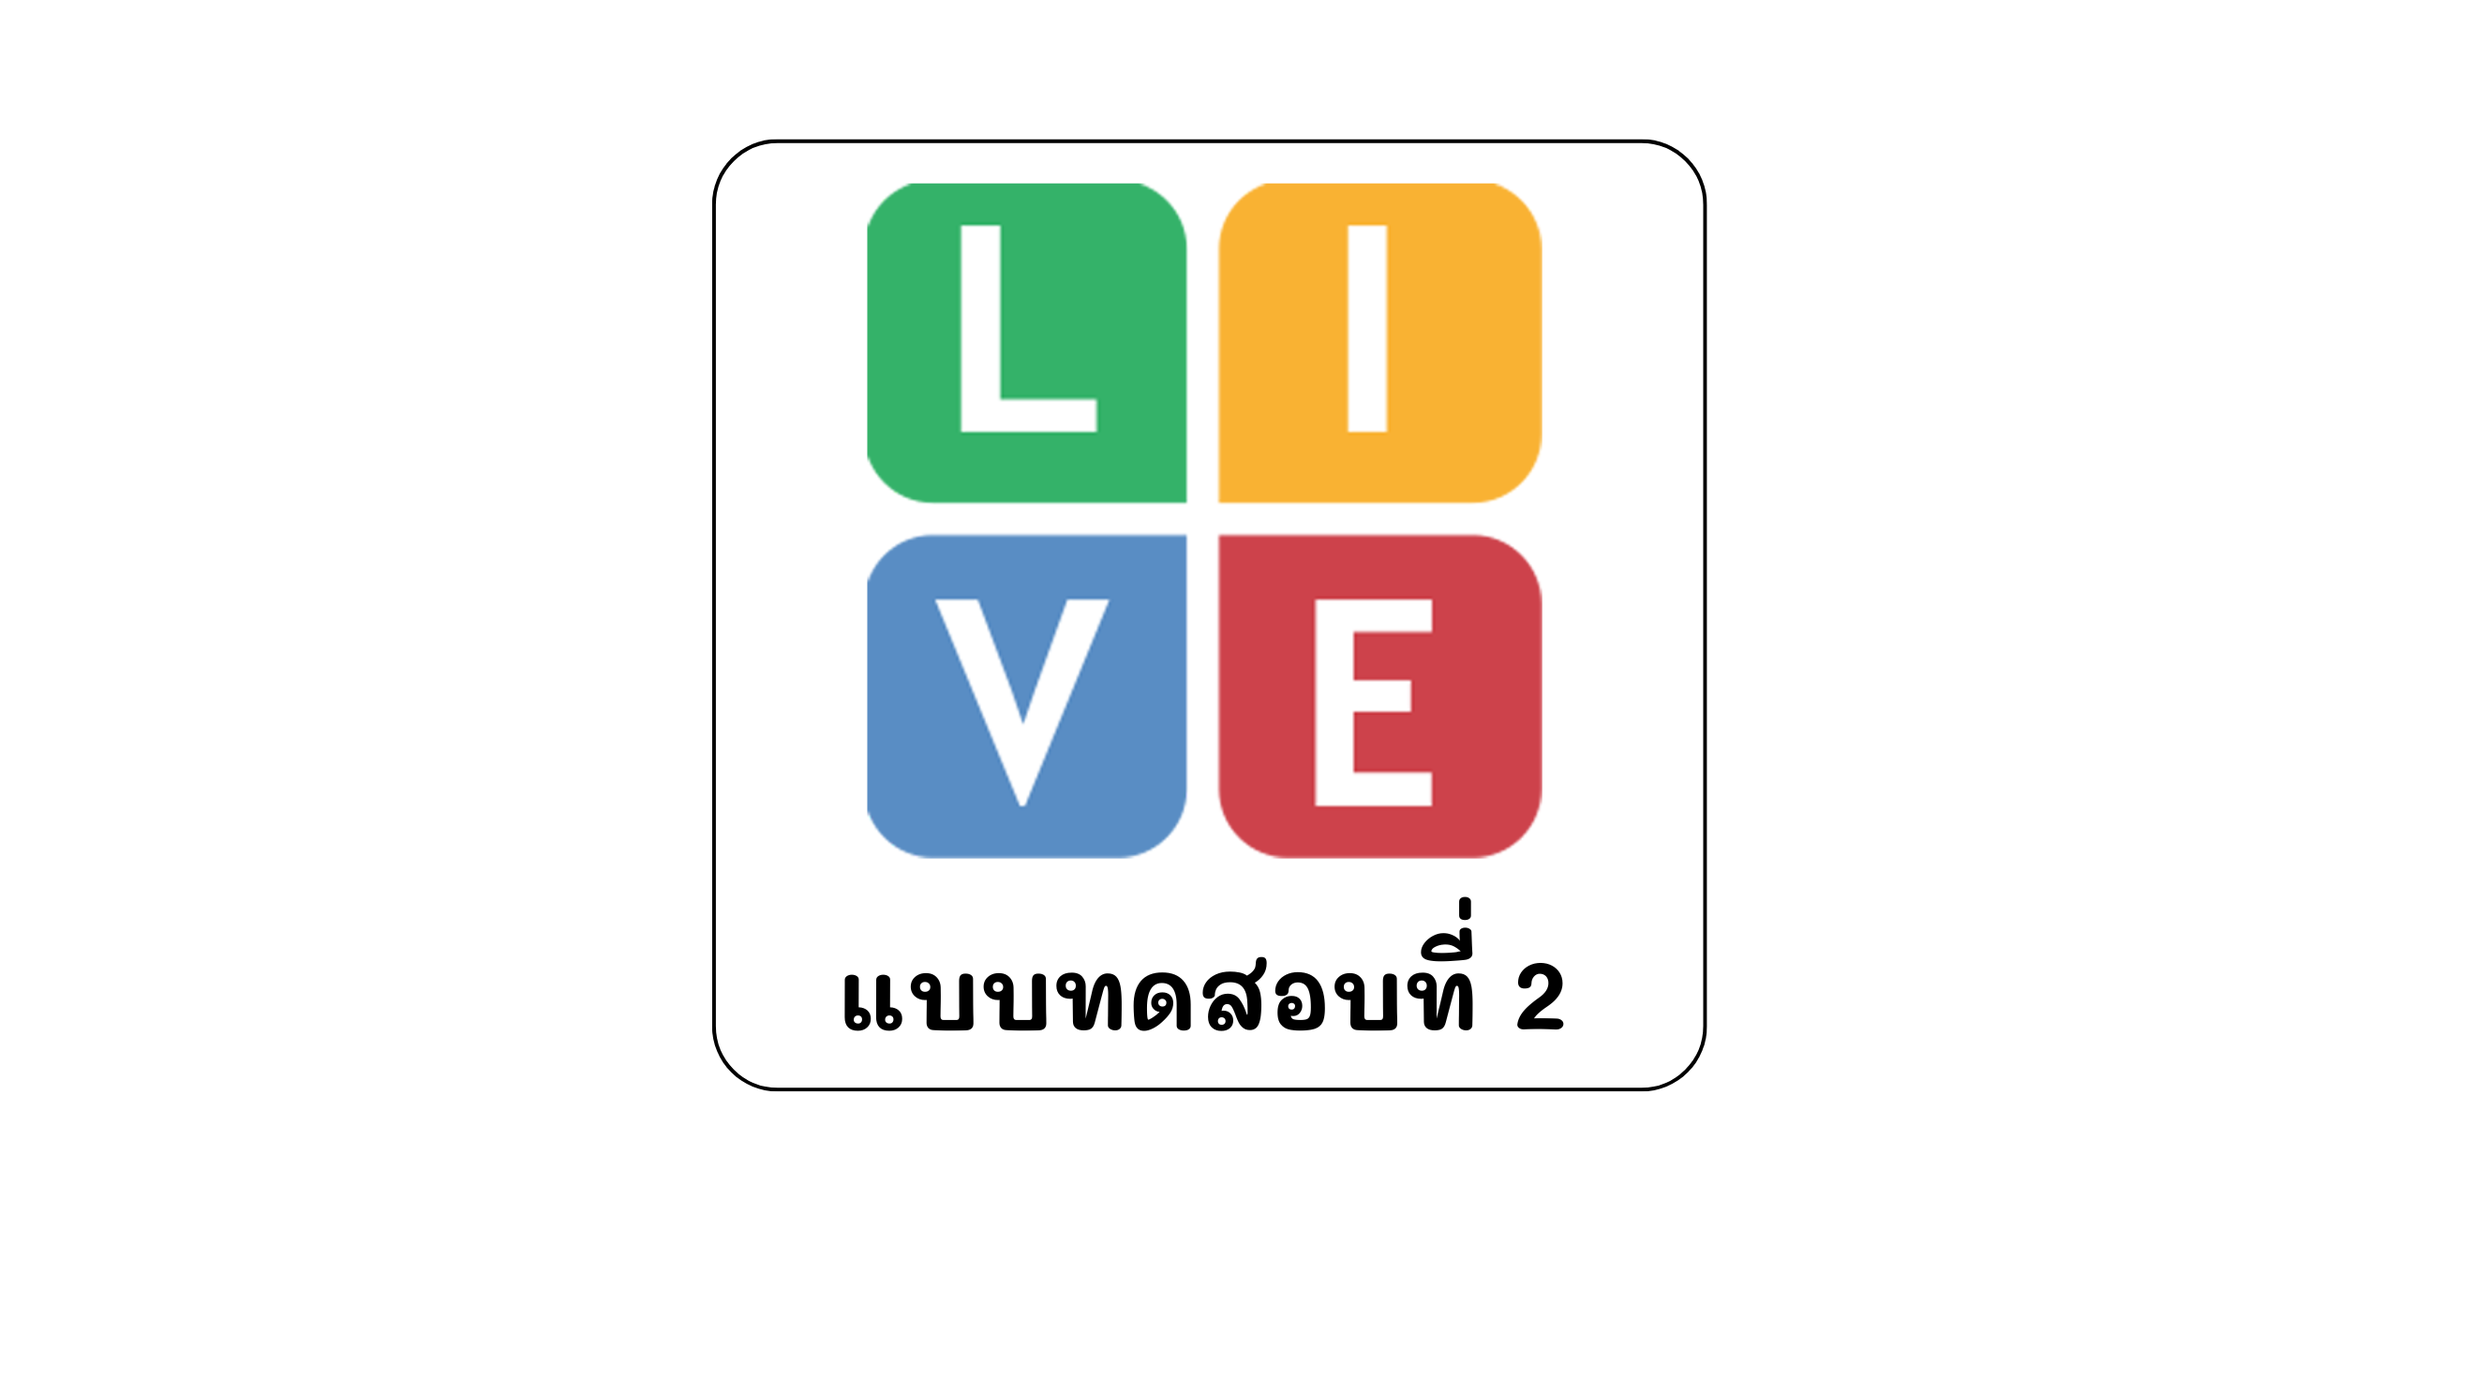
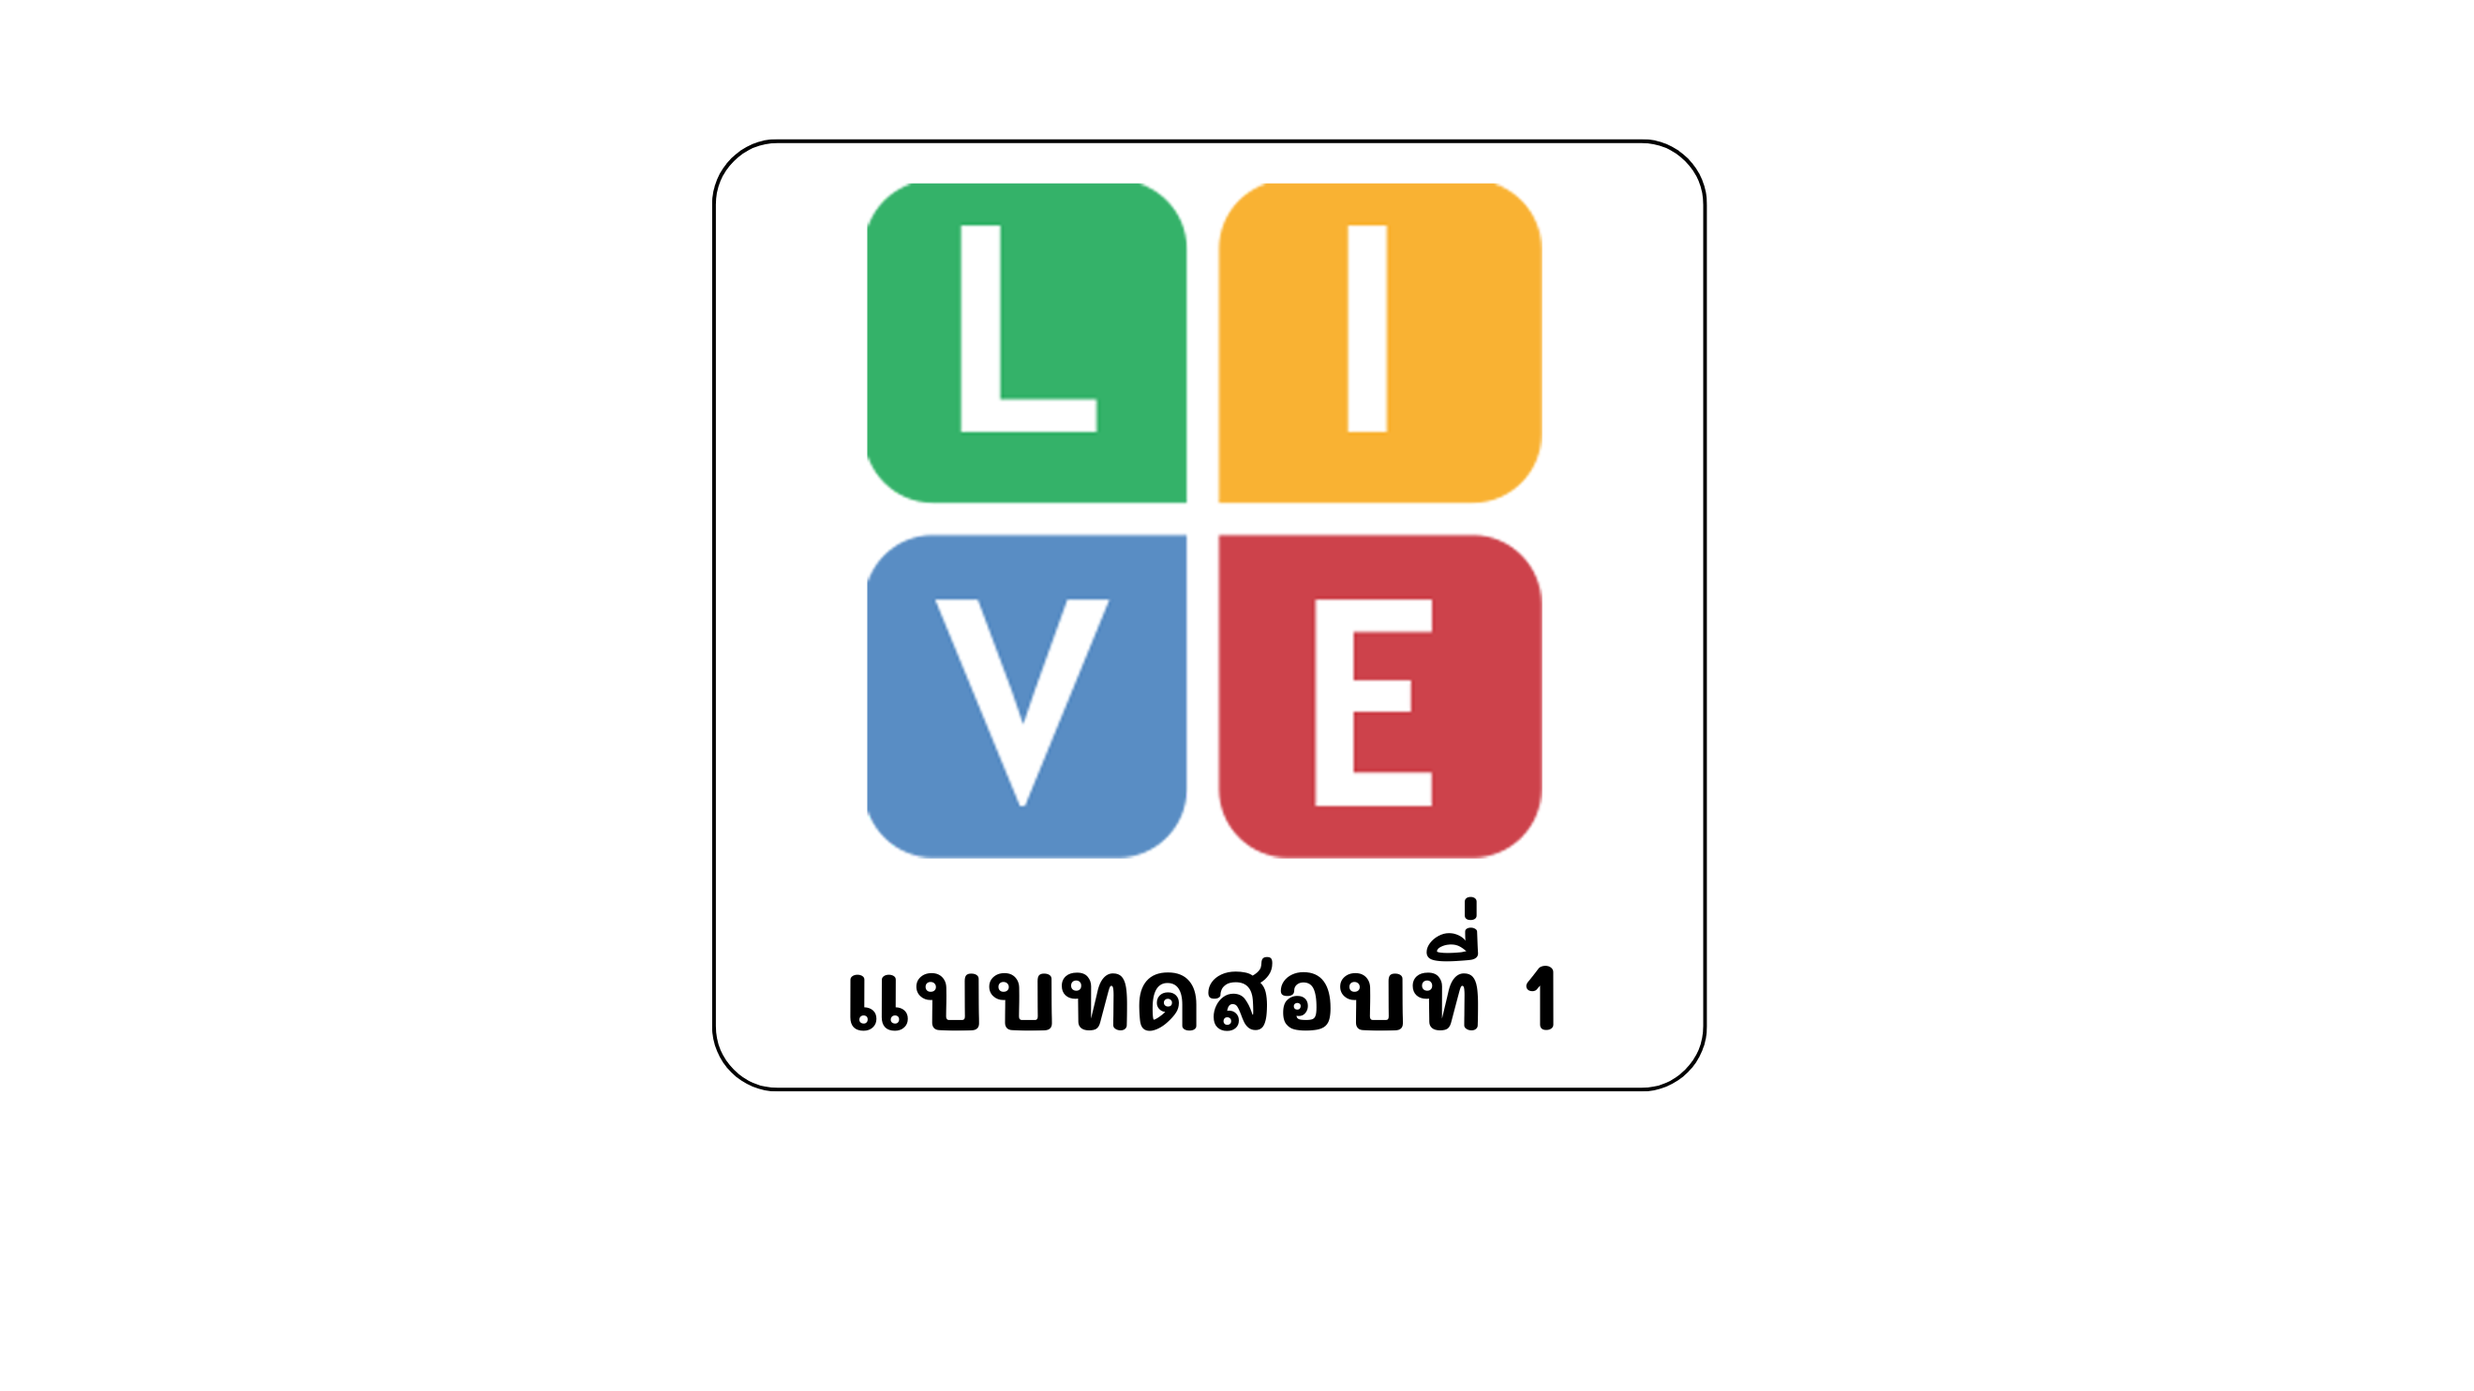
feat: update

Changed region(s): [[0.3417, 0.6505, 0.6523, 0.7434]]

diff --git a/app/pages/courses/lesson3.vue b/app/pages/courses/lesson3.vue
@@ -7,11 +7,13 @@ const test = computed(() => {
   return [
     {
       title: "แบบทดสอบที่ 1",
-      to: "https://www.liveworksheets.com/th/c?a=s&g=%E0%B8%9B.3&s=math&t=fnEyx4KoqY&mn=xz&sr=n&l=df&i=odouxxo&r=sj&f=dzdfuuuf&ms=uz&cd=pel-im9-jt-mglnejnjxmmjpqngnexxxexg&mw=hs",
+      to: "https://www.liveworksheets.com/th/c?a=s&g=%E0%B8%9B.3&s=math&t=fnEyx4KoqY&mn=xz&sr=n&l=jf&i=odouxss&r=g2&f=dzdfuuuf&ms=uz&cd=pel-im9-jt-mglqejnjxmppb5ngnexxxexg&mw=hs",
+      image: "https://math-teacher-tarn.vercel.app/images/test-1.png",
     },
     {
       title: "แบบทดสอบที่ 2",
-      to: "https://www.liveworksheets.com/th/c?a=s&g=%E0%B8%9B.3&s=math&t=fnEyx4KoqY&mn=xz&sr=n&l=qm&i=odozoxz&r=yx&f=dzdfuuuf&ms=uz&cd=pel-im9-jt-mgltvjnjgjmgimngnexxxexg&mw=hs",
+      to: "https://www.liveworksheets.com/th/c?a=s&g=%E0%B8%9B.3&s=math&t=fnEyx4KoqY&mn=xz&sr=n&l=mh&i=odoufzs&r=v9&f=dzdfuuuf&ms=uz&cd=pel-im9-jt-mglvwjnjxegpy4ngnexxxexg&mw=hs",
+      image: "https://math-teacher-tarn.vercel.app/images/test-2.png",
     },
   ];
 });
@@ -81,7 +83,7 @@ useSeoMeta({
     >
       <iframe
         class="aspect-video"
-        src="https://www.youtube.com/embed/VZ6Bn13VrEM"
+        src="https://www.youtube.com/embed/BABvNyXLW4I"
         frameborder="0"
         allowfullscreen
         width="100%"
@@ -161,20 +163,29 @@ useSeoMeta({
     <h3 class="text-xl font-semibold">
       ให้นักเรียนสร้างแบบจำลองความคิดจากโจทย์ปัญหาการลบ
     </h3>
-    <UButton
-      to="https://kleki.com/"
-      target="_blank"
-      color="neutral"
-      class="w-fit"
-      trailing-icon="i-lucide-arrow-right"
-      size="xl"
-    >
-      เริ่มสร้างแบบจำลองความคิด
-    </UButton>
+    <div class="flex flex-col">
+      <NuxtLink to="https://kleki.com/" target="_blank">
+        <NuxtImg
+          src="https://math-teacher-tarn.vercel.app/images/simulation.png"
+          alt="Kleki"
+          class="w-full"
+        />
+      </NuxtLink>
+      <UButton
+        to="https://kleki.com/"
+        target="_blank"
+        color="neutral"
+        class="w-fit mx-auto"
+        trailing-icon="i-lucide-arrow-right"
+        size="xl"
+      >
+        เริ่มสร้างแบบจำลองความคิด
+      </UButton>
+    </div>
     <USeparator class="my-6" />
     <h3 class="text-xl font-semibold">
-      ให้นักเรียนตอบคำถามหลังจากรับชมวิดีโอบทเรียนโจทย์ปัญหาการลบ
-      การเปรียบเทียบหาความแตกต่าง
+      ให้นักเรียนตอบคำถามหลังจากรับชมวิดีโอโจทย์ปัญหาการลบ
+      การหาจำนวนที่ต้องหามาเพิ่ม
     </h3>
     <UCard
       :ui="{
@@ -184,7 +195,7 @@ useSeoMeta({
     >
       <iframe
         class="h-[80dvh] sm:aspect-video"
-        src="https://padlet.com/yamjard_53p/padlet-hy2gih0vrm8alpfm"
+        src="https://padlet.com/yamjard_53p/padlet-413qunjz75h2rwdw"
         frameborder="0"
         allowfullscreen
         width="100%"
@@ -220,25 +231,28 @@ useSeoMeta({
 
   <div class="m-4 flex flex-col gap-4" v-if="route.hash === '#section3'">
     <h2 class="text-3xl font-bold">
-      ภารกิจพิชิตโจทย์ปัญหาการลบ การเปรียบเทียบหาความแตกต่าง
+      ภารกิจพิชิตโจทย์ปัญหาการลบ การหาจำนวนที่ต้องหามาเพิ่ม
     </h2>
-    <h3 class="text-xl font-semibold mt-2">
-      ให้นักเรียนเรียนรู้และรับชมวิดีโอบทเรียนโจทย์ปัญหาการลบ
-      การเปรียบเทียบหาความแตกต่าง
-    </h3>
     <div class="flex flex-col gap-4">
-      <div class="flex flex-col gap-2" v-for="item in test" :key="item.title">
-        <h3 class="text-xl">{{ item.title }}</h3>
+      <div
+        class="flex flex-col"
+        v-for="(item, index) in test"
+        :key="item.title"
+      >
+        <NuxtLink :to="item.to" target="_blank">
+          <NuxtImg :src="item.image" :alt="item.title" class="w-full" />
+        </NuxtLink>
         <UButton
           :to="item.to"
           target="_blank"
           color="neutral"
-          class="w-fit"
+          class="w-fit mx-auto"
           trailing-icon="i-lucide-arrow-right"
           size="xl"
         >
-          เริ่มทำแบบทดสอบ
+          เริ่มทำ {{ item.title }}
         </UButton>
+        <USeparator class="my-6" v-if="index !== test.length - 1" />
       </div>
     </div>
     <USeparator />

diff --git a/app/pages/courses/lesson2.vue b/app/pages/courses/lesson2.vue
@@ -8,10 +8,12 @@ const test = computed(() => {
     {
       title: "แบบทดสอบที่ 1",
       to: "https://www.liveworksheets.com/th/c?a=s&g=%E0%B8%9B.3&s=math&t=fnEyx4KoqY&mn=xz&sr=n&l=jf&i=odouxss&r=g2&f=dzdfuuuf&ms=uz&cd=pel-im9-jt-mglqejnjxmppb5ngnexxxexg&mw=hs",
+      image: "https://math-teacher-tarn.vercel.app/images/test-1.png",
     },
     {
       title: "แบบทดสอบที่ 2",
       to: "https://www.liveworksheets.com/th/c?a=s&g=%E0%B8%9B.3&s=math&t=fnEyx4KoqY&mn=xz&sr=n&l=mh&i=odoufzs&r=v9&f=dzdfuuuf&ms=uz&cd=pel-im9-jt-mglvwjnjxegpy4ngnexxxexg&mw=hs",
+      image: "https://math-teacher-tarn.vercel.app/images/test-2.png",
     },
   ];
 });
@@ -101,7 +103,7 @@ useSeoMeta({
     >
       <iframe
         class="h-[80dvh] sm:aspect-video"
-        src="https://padlet.com/sirapattarn/padlet-m0qm8h6z7t9701zg"
+        src="https://padlet.com/sirapattarn/padlet-4myx1q6wtoo6lgs"
         frameborder="0"
         allowfullscreen
         width="100%"
@@ -161,19 +163,28 @@ useSeoMeta({
     <h3 class="text-xl font-semibold">
       ให้นักเรียนสร้างแบบจำลองความคิดจากโจทย์ปัญหาการลบ
     </h3>
-    <UButton
-      to="https://kleki.com/"
-      target="_blank"
-      color="neutral"
-      class="w-fit"
-      trailing-icon="i-lucide-arrow-right"
-      size="xl"
-    >
-      เริ่มสร้างแบบจำลองความคิด
-    </UButton>
+    <div class="flex flex-col">
+      <NuxtLink to="https://kleki.com/" target="_blank">
+        <NuxtImg
+          src="https://math-teacher-tarn.vercel.app/images/simulation.png"
+          alt="Kleki"
+          class="w-full"
+        />
+      </NuxtLink>
+      <UButton
+        to="https://kleki.com/"
+        target="_blank"
+        color="neutral"
+        class="w-fit mx-auto"
+        trailing-icon="i-lucide-arrow-right"
+        size="xl"
+      >
+        เริ่มสร้างแบบจำลองความคิด
+      </UButton>
+    </div>
     <USeparator class="my-6" />
     <h3 class="text-xl font-semibold">
-      ให้นักเรียนตอบคำถามหลังจากรับชมวิดีโอบทเรียนโจทย์ปัญหาการลบ
+      ให้นักเรียนตอบคำถามหลังจากรับชมวิดีโอโจทย์ปัญหาการลบ
       การเปรียบเทียบหาความแตกต่าง
     </h3>
     <UCard
@@ -222,23 +233,26 @@ useSeoMeta({
     <h2 class="text-3xl font-bold">
       ภารกิจพิชิตโจทย์ปัญหาการลบ การเปรียบเทียบหาความแตกต่าง
     </h2>
-    <h3 class="text-xl font-semibold mt-2">
-      ให้นักเรียนเรียนรู้และรับชมวิดีโอบทเรียนโจทย์ปัญหาการลบ
-      การเปรียบเทียบหาความแตกต่าง
-    </h3>
     <div class="flex flex-col gap-4">
-      <div class="flex flex-col gap-2" v-for="item in test" :key="item.title">
-        <h3 class="text-xl">{{ item.title }}</h3>
+      <div
+        class="flex flex-col"
+        v-for="(item, index) in test"
+        :key="item.title"
+      >
+        <NuxtLink :to="item.to" target="_blank">
+          <NuxtImg :src="item.image" :alt="item.title" class="w-full" />
+        </NuxtLink>
         <UButton
           :to="item.to"
           target="_blank"
           color="neutral"
-          class="w-fit"
+          class="w-fit mx-auto"
           trailing-icon="i-lucide-arrow-right"
           size="xl"
         >
-          เริ่มทำแบบทดสอบ
+          เริ่มทำ {{ item.title }}
         </UButton>
+        <USeparator class="my-6" v-if="index !== test.length - 1" />
       </div>
     </div>
     <USeparator class="my-6" />

diff --git a/app/pages/courses/lesson1.vue b/app/pages/courses/lesson1.vue
@@ -8,10 +8,12 @@ const test = computed(() => {
     {
       title: "แบบทดสอบที่ 1",
       to: "https://www.liveworksheets.com/c?a=s&g=%E0%B8%9B.3&s=math&t=fnEyx4KoqY&mn=xz&sr=n&l=f6&i=odoufos&r=xq&f=dzdfuuuf&ms=uz&cd=pel-im9-jt-mgle1jnjxejpmtngnexxxexg&mw=hs",
+      image: "https://math-teacher-tarn.vercel.app/images/test-1.png",
     },
     {
       title: "แบบทดสอบที่ 2",
       to: "https://www.liveworksheets.com/c?a=s&g=%E0%B8%9B.3&s=math&t=fnEyx4KoqY&mn=xz&sr=n&l=yp&i=odouctf&r=ud&f=dzdfuuuf&ms=uz&cd=pel-im9-jt-mglihjnjxkzexnngnexxxexg&mw=hs",
+      image: "https://math-teacher-tarn.vercel.app/images/test-2.png",
     },
   ];
 });
@@ -156,16 +158,45 @@ useSeoMeta({
     <h3 class="text-xl font-semibold">
       ให้นักเรียนสร้างแบบจำลองความคิดจากโจทย์ปัญหาการลบ
     </h3>
-    <UButton
-      to="https://kleki.com/"
-      target="_blank"
-      color="neutral"
-      class="w-fit"
-      trailing-icon="i-lucide-arrow-right"
-      size="xl"
+    <div class="flex flex-col">
+      <NuxtLink to="https://kleki.com/" target="_blank">
+        <NuxtImg
+          src="https://math-teacher-tarn.vercel.app/images/simulation.png"
+          alt="Kleki"
+          class="w-full"
+        />
+      </NuxtLink>
+      <UButton
+        to="https://kleki.com/"
+        target="_blank"
+        color="neutral"
+        class="w-fit mx-auto"
+        trailing-icon="i-lucide-arrow-right"
+        size="xl"
+      >
+        เริ่มสร้างแบบจำลองความคิด
+      </UButton>
+    </div>
+    <USeparator class="my-6" />
+    <h3 class="text-xl font-semibold">
+      ให้นักเรียนตอบคำถามหลังจากรับชมวิดีโอโจทย์ปัญหาการลบ การหาจำนวนที่เหลือ
+    </h3>
+    <UCard
+      :ui="{
+        root: ' h-[80dvh] sm:aspect-video',
+        body: 'p-0!',
+      }"
     >
-      เริ่มสร้างแบบจำลองความคิด
-    </UButton>
+      <iframe
+        class="h-[80dvh] sm:aspect-video"
+        src="https://padlet.com/yamjard_53p/padlet-slubtdshlbeib2em"
+        frameborder="0"
+        allowfullscreen
+        width="100%"
+        height="100%"
+      ></iframe>
+    </UCard>
+
     <USeparator />
     <div class="flex flex-col sm:flex-row justify-between gap-4">
       <UButton
@@ -197,22 +228,26 @@ useSeoMeta({
     <h2 class="text-3xl font-bold">
       ภารกิจพิชิตโจทย์ปัญหาการลบ การหาจำนวนที่เหลือ
     </h2>
-    <h3 class="text-xl font-semibold mt-2">
-      ให้นักเรียนรับชมวิดีโอโจทย์ปัญหาการลบ การหาจำนวนที่เหลือ
-    </h3>
     <div class="flex flex-col gap-4">
-      <div class="flex flex-col gap-2" v-for="item in test" :key="item.title">
-        <h3 class="text-xl">{{ item.title }}</h3>
+      <div
+        class="flex flex-col"
+        v-for="(item, index) in test"
+        :key="item.title"
+      >
+        <NuxtLink :to="item.to" target="_blank">
+          <NuxtImg :src="item.image" :alt="item.title" class="w-full" />
+        </NuxtLink>
         <UButton
           :to="item.to"
           target="_blank"
           color="neutral"
-          class="w-fit"
+          class="w-fit mx-auto"
           trailing-icon="i-lucide-arrow-right"
           size="xl"
         >
-          เริ่มทำแบบทดสอบ
+          เริ่มทำ {{ item.title }}
         </UButton>
+        <USeparator class="my-6" v-if="index !== test.length - 1" />
       </div>
     </div>
     <USeparator />
